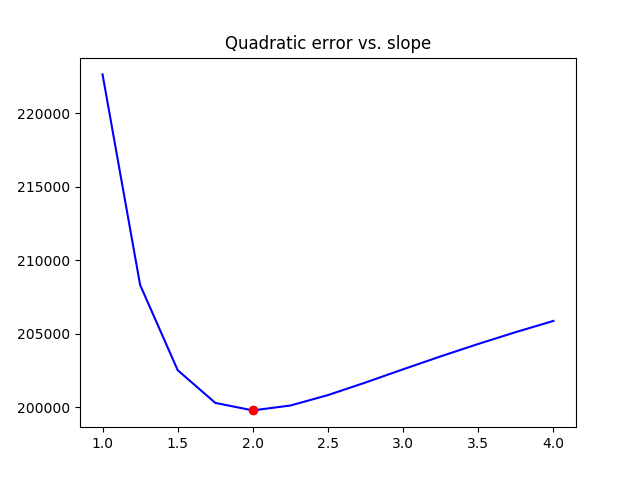
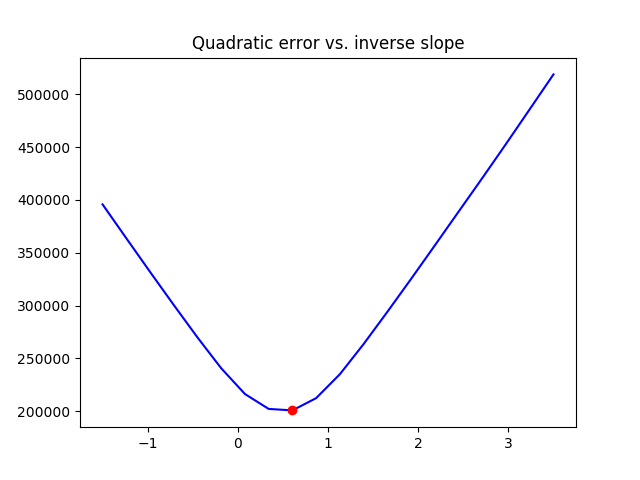
Changed slope optimization to optimization of the inverse of the slope

diff --git a/STIROefeningManon/MotionModelProjSpaceNoSTIR/MotionModelProjSpaceNoSTIR.py b/STIROefeningManon/MotionModelProjSpaceNoSTIR/MotionModelProjSpaceNoSTIR.py
@@ -16,9 +16,10 @@ motion = 'Sine'
 stationary = True 
 #stationary = False # Only possible for sinusoidal motion 
 
-nIt = 10 
+nIt = 7 
 trueShiftAmplitude = 10 # Kan niet alle waardes aannemen (niet alle shifts worden geprobeerd) + LET OP: kan niet groter zijn dan de lengte van het plaatje (kan de code niet aan) 
-trueSlope = 2
+trueSlope = 2.
+trueInvSlope = 1./trueSlope
 numFigures = 0 
 duration = 60 # in seconds
 if (motion == 'Step'): nFrames = 2
@@ -81,7 +82,7 @@ guessTMP[0,:,:] = guess
 pyvpx.numpy2vpx(guessTMP, figSaveDir + 'guess.vpx') 
 
 #_________________________NESTED EM LOOP_______________________________
-slopeFoundList = []
+invSlopeFoundList = []
 quadErrorSumFoundList = []
 quadErrorSumListList = []
 guessSum = []
@@ -113,26 +114,26 @@ for iIt in range(nIt):
     if (iIt >= 4):
         # Motion model optimization
         quadErrorSumList = []   
-        slopeList = np.linspace(1,4,13)
-        for slope in slopeList: 
+        invSlopeList = np.linspace(trueInvSlope-2, trueInvSlope+3, 20)
+        for invSlope in invSlopeList: 
             quadErrorSum = 0 
             for iFrame in range(nFrames): 
                 guessMoved = np.zeros(np.shape(guess))
-                guessMoved = sp.ndimage.shift(copy.deepcopy(guess), (surSignal[iFrame]/slope, 0)) # Je bent als het ware de correctie op het surrogaat signaal aan het zoeken
+                guessMoved = sp.ndimage.shift(copy.deepcopy(guess), (surSignal[iFrame] * invSlope, 0)) # Je bent als het ware de correctie op het surrogaat signaal aan het zoeken
                 guessMovedProj = radon(copy.deepcopy(guessMoved), iAngles)
                 quadErrorSum += np.sum(abs(guessMovedProj - measList[iFrame]))
-            quadErrorSumList.append({'slope' : slope, 'quadErrorSum' : quadErrorSum})
-            print 'Slope: {}'.format(slope), 'Quadratic error: {}'.format(quadErrorSum)
+            quadErrorSumList.append({'invSlope' : invSlope, 'quadErrorSum' : quadErrorSum})
+            print 'Inverse slope: {}'.format(invSlope), 'Quadratic error: {}'.format(quadErrorSum)
 
         quadErrorSums = [x['quadErrorSum'] for x in quadErrorSumList]
         quadErrorSumListList.append(quadErrorSums)
         index = quadErrorSums.index(np.min(quadErrorSums))
-        slopeFound = quadErrorSumList[index]['slope']
-        slopeFoundList.append(slopeFound)
+        invSlopeFound = quadErrorSumList[index]['invSlope']
+        invSlopeFoundList.append(invSlopeFound)
         quadErrorSumFound = quadErrorSumList[index]['quadErrorSum']
         quadErrorSumFoundList.append(quadErrorSumFound) 
 
-        plt.plot(slopeList, quadErrorSums, 'b-', slopeFound, quadErrorSumFound, 'ro'), plt.title('Quadratic error vs. slope')
+        plt.plot(invSlopeList, quadErrorSums, 'b-', invSlopeFound, quadErrorSumFound, 'ro'), plt.title('Quadratic error vs. inverse slope')
         plt.savefig(figSaveDir + 'Fig{}_TrueShift{}_QuadraticError_Iteration{}.png'.format(numFigures, trueShiftAmplitude, iIt))
         numFigures += 1 
         plt.close()
@@ -141,7 +142,7 @@ for iIt in range(nIt):
         # Normal MLEM with motion compensation 
         for iFrame in range(nFrames): 
             shiftedGuess = np.zeros(np.shape(guess))
-            shiftedGuess = sp.ndimage.shift(copy.deepcopy(guess), (surSignal[iFrame]/slopeFound, 0))
+            shiftedGuess = sp.ndimage.shift(copy.deepcopy(guess), (surSignal[iFrame] * invSlopeFound, 0))
             shiftedGuessSinogram = radon(shiftedGuess, iAngles) 
             error = measList[iFrame]/shiftedGuessSinogram 
             error[np.isnan(error)] = 0
@@ -150,7 +151,7 @@ for iIt in range(nIt):
             error[error < 1E-10] = 0
             errorBck = iradon(error, iAngles, filter = None) 
             errorBckShifted = np.zeros(np.shape(errorBck))
-            errorBckShifted = sp.ndimage.shift(errorBck, (-surSignal[iFrame]/slopeFound, 0))
+            errorBckShifted = sp.ndimage.shift(errorBck, (-surSignal[iFrame] * invSlopeFound, 0))
             totalError += errorBckShifted   
         guess *= totalError/nFrames
         guess /= np.sum(guess) 
@@ -174,9 +175,9 @@ numFigures += 1
 plt.close() 
 
 for i in range(len(quadErrorSumListList)): 
-    plt.plot(slopeFoundList, quadErrorSumFoundList, 'ro') 
-    plt.plot(slopeList, quadErrorSumListList[i], label = 'Iteration {}'.format(i+1)), plt.title('Quadratic error vs. slope')
-    plt.axvline(trueSlope, color='k', linestyle='--')
+    plt.plot(invSlopeFoundList, quadErrorSumFoundList, 'ro') 
+    plt.plot(invSlopeList, quadErrorSumListList[i], label = 'Iteration {}'.format(i+1)), plt.title('Quadratic error vs. inverse slope')
+    plt.axvline(trueInvSlope, color='k', linestyle='--')
 plt.legend()
 plt.savefig(figSaveDir + 'Fig{}_TrueShift{}_QuadraticError.png'.format(numFigures, trueShiftAmplitude))
 numFigures += 1 
